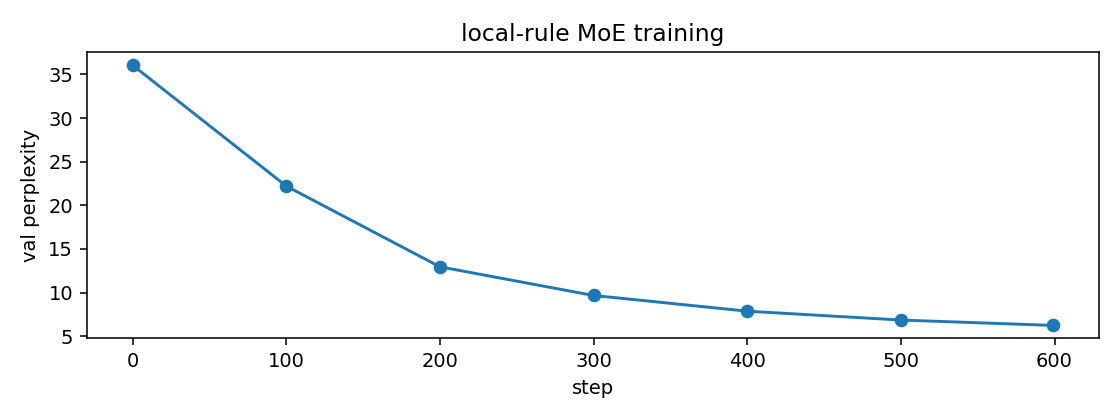
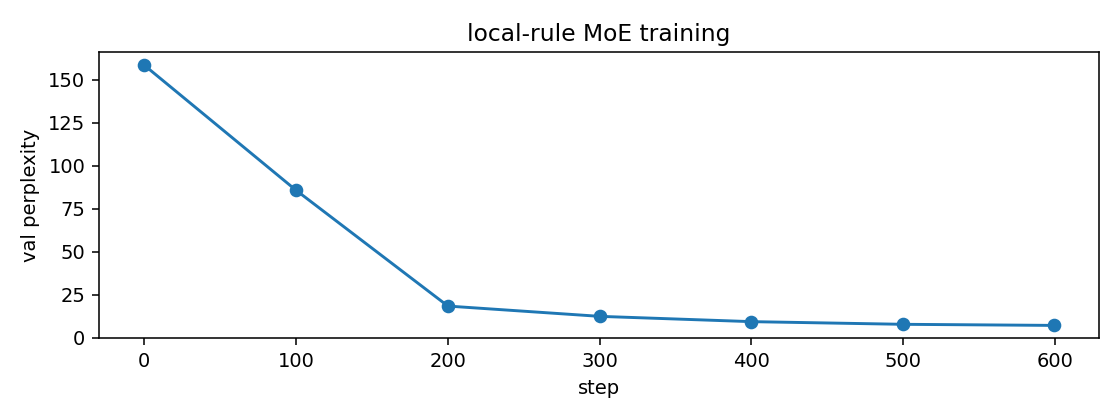
Phase D step 1: offline BPE subword tokenizer (meaningful PPL)
- build_data supports cfg.tokenizer 'word'|'bpe'; bpe = HuggingFace tokenizers ByteLevel BPE
  trained IN-NOTEBOOK from the corpus (offline, deterministic, fixed line order), vocab=32000
  -> param count unchanged 4.156B. Removes word-level <unk> inflation; subword PPL is more
  meaningful + downstream-generation-ready. ZG_TOKENIZER env switch. Architecture/local-rule/
  Phase-C schedule all unchanged (new baseline, not directly comparable to word-level 1360).
- local sanity (small, bpe): val_ppl 9.28->7.10 monotonic, beats unigram, zero autograd,
  deterministic. Phase D Kaggle run = BPE + Phase C schedule + 150min.

diff --git a/kaggle_zerograd_moe.py b/kaggle_zerograd_moe.py
@@ -55,6 +55,7 @@ class Config:
     k_update: int = 4                 # DETERMINISTIC budget: experts updated per layer per step (k_update << N)
     capacity_factor: float = 2.0
     dtype: str = "float32"
+    tokenizer: str = "word"           # "word" | "bpe" (Phase D: offline-trained ByteLevel BPE subword)
     steps: int = 600
     batch_size: int = 64
     lr: float = 0.1
@@ -94,6 +95,7 @@ if os.environ.get("ZG_SMOKE") == "1":                          # smoke: 4B resid
 elif os.environ.get("ZG_RUN_MIN"):                             # real run with a wall-clock cap (minutes)
     KAGGLE.time_limit_s = int(os.environ["ZG_RUN_MIN"])*60; KAGGLE.eval_every = 100
 CONFIG = KAGGLE if (ON_KAGGLE and CUDA) else Config()          # auto-pick; flip manually if needed
+if os.environ.get("ZG_TOKENIZER"): CONFIG.tokenizer = os.environ["ZG_TOKENIZER"]   # Phase D: "bpe"
 DEVICE = torch.device("cuda:0" if CUDA else "cpu")
 DT = CONFIG.td
 
@@ -123,27 +125,37 @@ def build_data(cfg: Config):
         K=4; tmap={t:{s:verb[(subj.index(s)+3*t)%8] for s in subj} for t in range(K)}
         sents=[" ".join([f"t{rng.randrange(K)}","the",rng.choice(adj),s,tmap[rng.randrange(K)][s],"the",rng.choice(adj),rng.choice(obj)]) for s in (rng.choice(subj) for _ in range(8000))]
         text=" ".join(sents); corpus="synthetic(local)"
-    from collections import Counter
-    toks = _tok(text)
-    vocab = ["<pad>", "<unk>"] + [w for w, _ in Counter(toks).most_common(cfg.vocab-2)]
-    stoi = {w: i for i, w in enumerate(vocab)}
-    ids = torch.tensor([stoi.get(w, 1) for w in toks], dtype=torch.long)
-    X, Y = [], []
-    for i in range(0, min(len(ids)-cfg.seq_len-1, 400000), 3):
-        X.append(ids[i:i+cfg.seq_len]); Y.append(ids[i+cfg.seq_len])
-    X = torch.stack(X); Y = torch.stack(Y)
+    # --- tokenize (word-level | offline-trained ByteLevel BPE subword) ---
+    if cfg.tokenizer == "bpe":                                  # Phase D: subword -> meaningful PPL, no <unk> inflation
+        from tokenizers import Tokenizer, models, trainers, pre_tokenizers
+        tk = Tokenizer(models.BPE(unk_token="<unk>")); tk.pre_tokenizer = pre_tokenizers.ByteLevel(add_prefix_space=True)
+        lines = [l for l in text.split("\n") if l.strip()] or [text]   # fixed order -> deterministic training
+        tk.train_from_iterator(lines, trainers.BpeTrainer(vocab_size=cfg.vocab, special_tokens=["<pad>", "<unk>"]))
+        vocab = [None]*tk.get_vocab_size()
+        ids = torch.tensor(tk.encode(text).ids, dtype=torch.long)
+        test_ids = torch.tensor(tk.encode(test_text).ids, dtype=torch.long) if test_text is not None else None
+    else:
+        from collections import Counter
+        vocab = ["<pad>", "<unk>"] + [w for w, _ in Counter(_tok(text)).most_common(cfg.vocab-2)]
+        stoi = {w: i for i, w in enumerate(vocab)}
+        ids = torch.tensor([stoi.get(w, 1) for w in _tok(text)], dtype=torch.long)
+        test_ids = torch.tensor([stoi.get(w, 1) for w in _tok(test_text)], dtype=torch.long) if test_text is not None else None
+    V = len(vocab)
+    def _win(t, stride, cap):
+        Xs, Ys = [], []
+        for i in range(0, min(len(t)-cfg.seq_len-1, cap), stride):
+            Xs.append(t[i:i+cfg.seq_len]); Ys.append(t[i+cfg.seq_len])
+        return (torch.stack(Xs), torch.stack(Ys)) if Xs else (None, None)
+    X, Y = _win(ids, 3, 400000)
     perm = torch.randperm(len(X), generator=torch.Generator().manual_seed(SEED)); X, Y = X[perm], Y[perm]
     nval = max(256, len(X)//20)
-    d = dict(corpus=corpus, vocab=vocab, stoi=stoi, Xtr=X[nval:].to(DEVICE), Ytr=Y[nval:].to(DEVICE),
+    d = dict(corpus=corpus + "/" + cfg.tokenizer, vocab=vocab, Xtr=X[nval:].to(DEVICE), Ytr=Y[nval:].to(DEVICE),
              Xval=X[:nval].to(DEVICE), Yval=Y[:nval].to(DEVICE))
-    cnt = torch.bincount(d["Ytr"], minlength=len(vocab)).float()+1e-6; p = cnt/cnt.sum()
+    cnt = torch.bincount(d["Ytr"], minlength=V).float()+1e-6; p = cnt/cnt.sum()
     d["unigram_ppl"] = float(torch.exp(-(p[d["Yval"]].log()).mean()))
-    if test_text is not None:                                  # official WikiText-103 test split
-        tt = _tok(test_text); tids = torch.tensor([stoi.get(w, 1) for w in tt], dtype=torch.long)
-        Xt, Yt = [], []
-        for i in range(0, len(tids)-cfg.seq_len-1, cfg.seq_len):
-            Xt.append(tids[i:i+cfg.seq_len]); Yt.append(tids[i+cfg.seq_len])
-        if Xt: d["Xtest"] = torch.stack(Xt)[:3000].to(DEVICE); d["Ytest"] = torch.stack(Yt)[:3000].to(DEVICE)
+    if test_ids is not None:                                    # official WikiText-103 test split
+        Xt, Yt = _win(test_ids, cfg.seq_len, 10**9)
+        if Xt is not None: d["Xtest"] = Xt[:3000].to(DEVICE); d["Ytest"] = Yt[:3000].to(DEVICE)
     return d
 
 